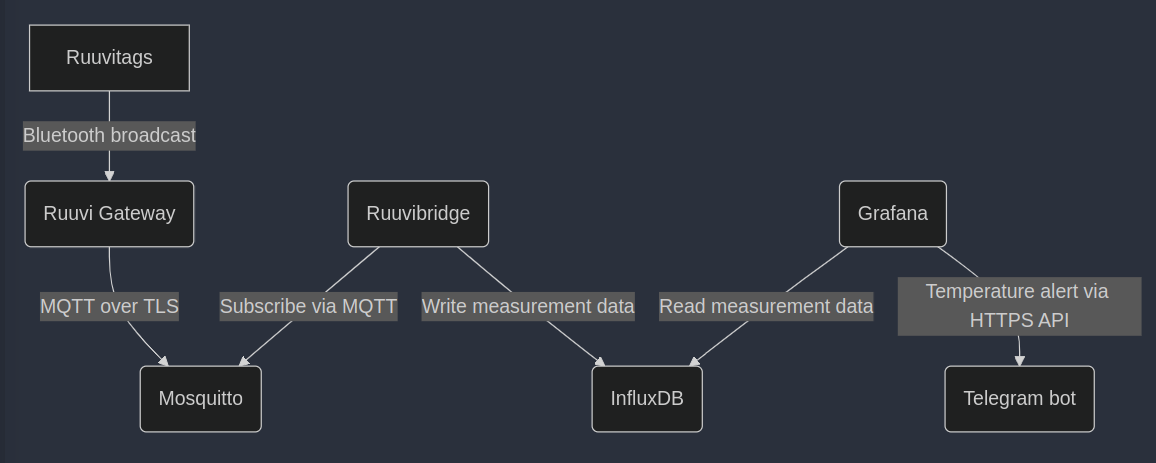
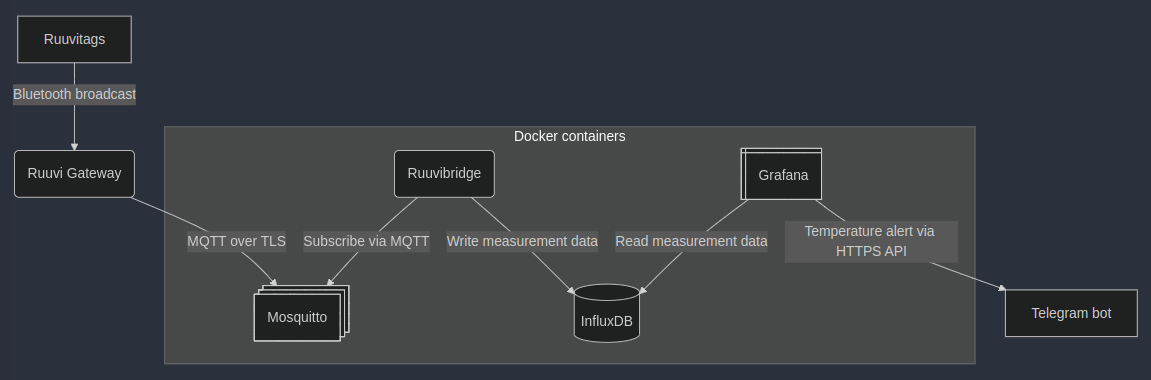
Update architecture diagram

diff --git a/README.md b/README.md
@@ -17,16 +17,20 @@ Docker setup to set up a complete Ruuvitag monitoring stack with alerts. Aims to
 
 ...and of course Docker and Docker-compose.
 
-## Architecture in Mermaid graph format
+## Architecture
+
+### As (Mermaid)[https://mermaid.live/] graph
 
 ```
 flowchart TD
     A[Ruuvitags] -->|Bluetooth broadcast| B(Ruuvi Gateway)
-    B -->|MQTT over TLS| C(Mosquitto)
+    B -->|MQTT over TLS| C@{ shape: processes, label: "Mosquitto" }
+    subgraph Docker containers
     D(Ruuvibridge) -->|Subscribe via MQTT| C
-    D -->|Write measurement data| E(InfluxDB)
-    F(Grafana) -->|Read measurement data| E
-    F -->|Temperature alert via HTTPS API| G(Telegram bot)
+    D -->|Write measurement data| E@{ shape: cyl, label: "InfluxDB" }
+    F@{ shape: win-pane, label: "Grafana" } -->|Read measurement data| E
+    end
+    F -->|Temperature alert via HTTPS API| G@{shape: rect, label: "Telegram bot"}
 ```
 ![Preview](https://raw.githubusercontent.com/laiti/ruuvitag-grafana/main/doc/architecture.png)
 
